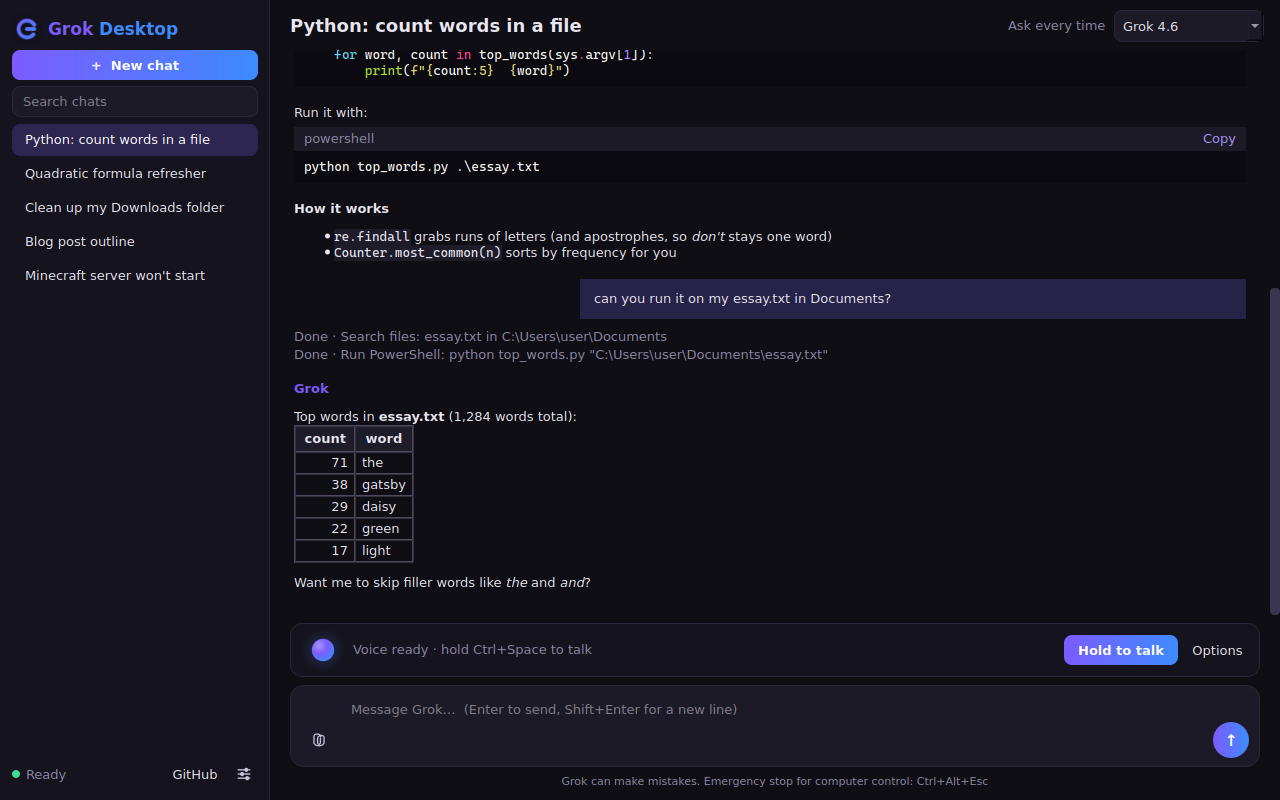
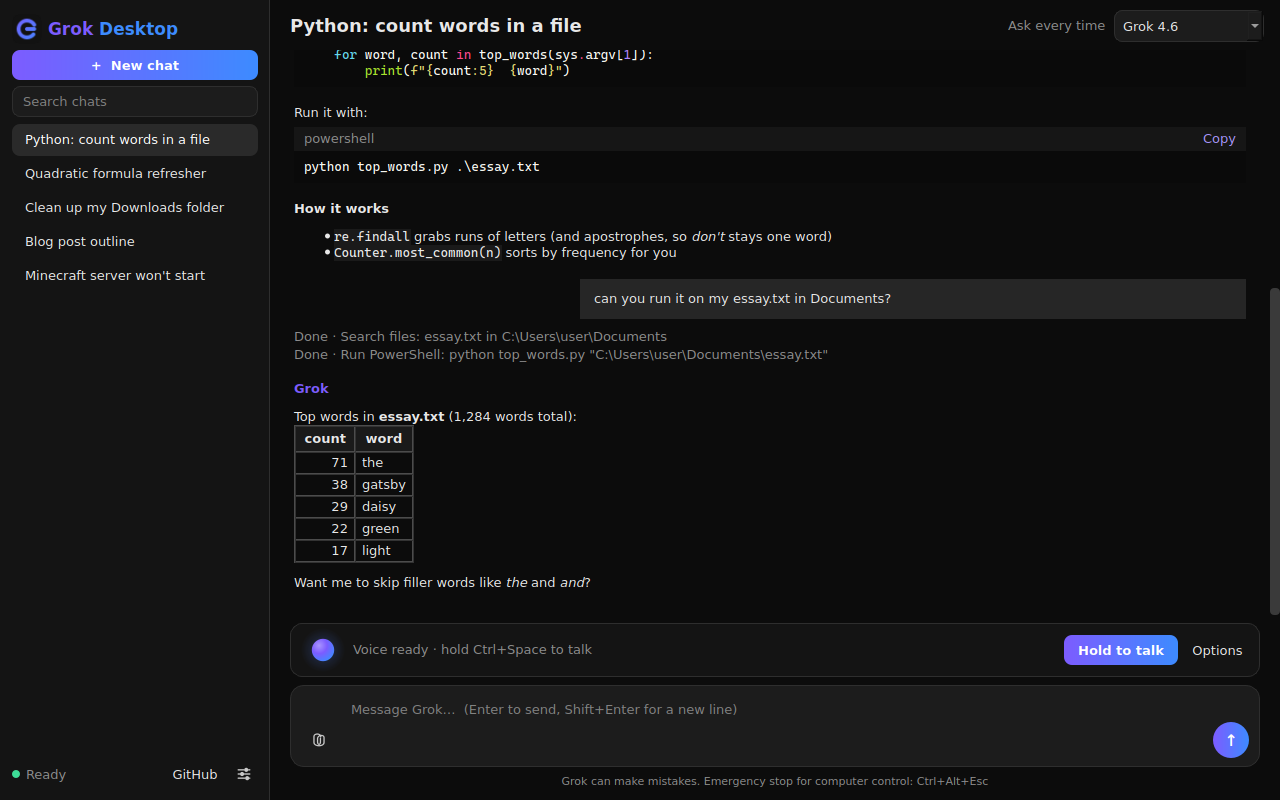
Shift the window to black and gray, and keep violet-blue for the accent.
Backgrounds, panels, text, and selections are neutral. The gradient stays on actions, focus, links, and the mark.

Changed region(s): [[0.4375, 0.3438, 1.0, 0.4062], [0.0, 0.1562, 0.2188, 0.2188]]

diff --git a/src/grok_desktop/theme.py b/src/grok_desktop/theme.py
@@ -1,4 +1,4 @@
-"""Dark theme with the Grid OS violet-to-blue accent (#7C5CFF -> #3D8BFF), and the app icon (drawn in code)."""
+"""Near-black theme. Surfaces are black and gray; the violet-to-blue accent (#7C5CFF -> #3D8BFF) is reserved for actions, focus, and the mark."""
 from __future__ import annotations
 
 from PySide6.QtCore import QPointF, QRectF, Qt
@@ -8,7 +8,8 @@ from PySide6.QtWidgets import QApplication
 from .paths import IS_WINDOWS
 
 V, B = "#7C5CFF", "#3D8BFF"
-BG, PANEL, PANEL2, BORDER, FG, MUTED = "#0F0E15", "#15131D", "#1C1A26", "#2A2738", "#E8E6F0", "#8C88A3"
+BG, PANEL, PANEL2, BORDER, FG, MUTED = "#0C0C0C", "#141414", "#1C1C1C", "#2E2E2E", "#E8E8E8", "#8D8D8D"
+HOVER, SELECTED = "#242424", "#2A2A2A"
 GRAD = f"qlineargradient(x1:0, y1:0, x2:1, y2:0, stop:0 {V}, stop:1 {B})"
 
 
@@ -19,7 +20,7 @@ def apply(app: QApplication) -> None:
                     (QPalette.AlternateBase, PANEL2), (QPalette.Text, FG), (QPalette.Button, PANEL2),
                     (QPalette.ButtonText, FG), (QPalette.Highlight, V), (QPalette.HighlightedText, "#FFFFFF"),
                     (QPalette.ToolTipBase, PANEL2), (QPalette.ToolTipText, FG), (QPalette.Link, "#A996FF"),
-                    (QPalette.PlaceholderText, "#6F6B85")):
+                    (QPalette.PlaceholderText, "#6A6A6A")):
         pal.setColor(role, QColor(c))
     app.setPalette(pal)
     f = QFont("Segoe UI" if IS_WINDOWS else "DejaVu Sans")
@@ -32,9 +33,9 @@ def apply(app: QApplication) -> None:
         #brand {{ font-size: 17px; font-weight: bold; }}
         QPushButton {{ padding: 7px 14px; border-radius: 8px; border: 1px solid {BORDER}; background: {PANEL2}; }}
         QPushButton:hover {{ border-color: {V}; }}
-        QPushButton:disabled {{ color: #5E5A72; }}
+        QPushButton:disabled {{ color: #5A5A5A; }}
         QPushButton#primary {{ background: {GRAD}; border: none; color: white; font-weight: bold; }}
-        QPushButton#primary:disabled {{ background: #2E2A45; color: #8A86A0; }}
+        QPushButton#primary:disabled {{ background: #2A2A2A; color: #7A7A7A; }}
         QPushButton#danger {{ background: #5A1E2A; border-color: #8A2A3C; color: white; font-weight: bold; }}
         QPushButton#ghost {{ background: transparent; border: none; padding: 6px; }}
         QPushButton#ghost:hover {{ background: {PANEL2}; }}
@@ -45,38 +46,38 @@ def apply(app: QApplication) -> None:
         QLineEdit, QPlainTextEdit, QComboBox, QKeySequenceEdit {{ background: {PANEL2}; border: 1px solid {BORDER};
                             border-radius: 8px; padding: 6px 8px; selection-background-color: {V}; }}
         QLineEdit:focus, QPlainTextEdit:focus {{ border-color: {V}; }}
-        QComboBox QAbstractItemView {{ background: {PANEL2}; selection-background-color: #2D2650; }}
+        QComboBox QAbstractItemView {{ background: {PANEL2}; selection-background-color: {SELECTED}; }}
         QListWidget {{ background: transparent; border: none; outline: none; }}
         QListWidget::item {{ padding: 8px 10px; border-radius: 8px; margin: 1px 0; }}
-        QListWidget::item:hover {{ background: #1F1C2B; }}
-        QListWidget::item:selected {{ background: #2D2650; color: white; }}
+        QListWidget::item:hover {{ background: {HOVER}; }}
+        QListWidget::item:selected {{ background: {SELECTED}; color: white; }}
         QTextBrowser#chat {{ background: {BG}; border: none; }}
         #composer {{ background: {PANEL2}; border: 1px solid {BORDER}; border-radius: 14px; }}
         #composer QPlainTextEdit {{ background: transparent; border: none; padding: 4px; }}
-        #chip {{ background: #262337; border: 1px solid {BORDER}; border-radius: 8px; }}
-        #permCard {{ background: #1A1726; border: 1px solid {V}; border-radius: 12px; }}
+        #chip {{ background: #222222; border: 1px solid {BORDER}; border-radius: 8px; }}
+        #permCard {{ background: #161616; border: 1px solid {V}; border-radius: 12px; }}
         #permCard[risk="high"] {{ border-color: #E5484D; }}
-        #banner {{ background: #221E33; border: 1px solid {BORDER}; border-radius: 10px; }}
+        #banner {{ background: #161616; border: 1px solid {BORDER}; border-radius: 10px; }}
         #banner[kind="error"] {{ background: #3A1F2A; border-color: #8A2A3C; }}
-        #detail {{ background: #0B0A10; border: 1px solid {BORDER}; border-radius: 8px;
+        #detail {{ background: #0A0A0A; border: 1px solid {BORDER}; border-radius: 8px;
                    font-family: 'Cascadia Mono', Consolas, 'DejaVu Sans Mono', monospace; }}
         #muted {{ color: {MUTED}; }}
         #hint {{ color: {MUTED}; font-size: 11px; }}
         #h1 {{ font-size: 18px; font-weight: bold; }}
         QRadioButton, QCheckBox {{ spacing: 8px; }}
-        QRadioButton::indicator {{ width: 16px; height: 16px; border: 2px solid #5E5A72; border-radius: 8px; background: transparent; }}
+        QRadioButton::indicator {{ width: 16px; height: 16px; border: 2px solid #5A5A5A; border-radius: 8px; background: transparent; }}
         QRadioButton::indicator:checked {{ background: {V}; border: 2px solid {V}; border-radius: 8px; }}
-        QCheckBox::indicator {{ width: 16px; height: 16px; border: 2px solid #5E5A72; border-radius: 4px; background: transparent; }}
+        QCheckBox::indicator {{ width: 16px; height: 16px; border: 2px solid #5A5A5A; border-radius: 4px; background: transparent; }}
         QCheckBox::indicator:checked {{ background: {V}; border: 2px solid {V}; border-radius: 4px; }}
         QScrollBar:vertical {{ background: transparent; width: 10px; }}
-        QScrollBar::handle:vertical {{ background: #3A3650; border-radius: 4px; min-height: 30px; }}
+        QScrollBar::handle:vertical {{ background: #3A3A3A; border-radius: 4px; min-height: 30px; }}
         QScrollBar::add-line, QScrollBar::sub-line {{ height: 0; }}
         QMenu {{ background: {PANEL2}; border: 1px solid {BORDER}; padding: 4px; }}
         QMenu::item {{ padding: 6px 18px; border-radius: 6px; }}
-        QMenu::item:selected {{ background: #2D2650; }}
+        QMenu::item:selected {{ background: {SELECTED}; }}
         QDialog {{ background: {BG}; }}
         QGroupBox {{ border: 1px solid {BORDER}; border-radius: 10px; margin-top: 14px; padding: 10px; }}
-        QGroupBox::title {{ subcontrol-origin: margin; left: 12px; padding: 0 4px; color: #B7A8FF; font-weight: bold; }}
+        QGroupBox::title {{ subcontrol-origin: margin; left: 12px; padding: 0 4px; color: {FG}; font-weight: bold; }}
     """)
 
 
@@ -89,7 +90,7 @@ def icon_pixmap(size: int = 256) -> QPixmap:
     r = QRectF(0, 0, size, size)
     bg = QPainterPath()
     bg.addRoundedRect(r.adjusted(size * .02, size * .02, -size * .02, -size * .02), size * .22, size * .22)
-    p.fillPath(bg, QColor("#14121C"))
+    p.fillPath(bg, QColor("#121212"))
     g = QLinearGradient(QPointF(0, 0), QPointF(size, size))
     g.setColorAt(0, QColor(V))
     g.setColorAt(1, QColor(B))
@@ -102,7 +103,7 @@ def icon_pixmap(size: int = 256) -> QPixmap:
     return pm
 
 
-def _line_icon(draw, size: int = 18, color: str = "#C9C4DC") -> QIcon:
+def _line_icon(draw, size: int = 18, color: str = "#C8C8C8") -> QIcon:
     """A small monochrome stroke icon. Emoji glyphs are missing or monochrome on some Linux fonts."""
     pm = QPixmap(size, size)
     pm.fill(Qt.transparent)
@@ -142,7 +143,7 @@ def paperclip_icon(size: int = 18) -> QIcon:
 def settings_icon(size: int = 18) -> QIcon:
     """Slider rows, which stay recognizable at the size of a toolbar button."""
     def draw(p: QPainter, s: float) -> None:
-        color = QColor("#C9C4DC")
+        color = QColor("#C8C8C8")
         pen = p.pen()
         for y, knob in ((0.24, 0.64), (0.50, 0.38), (0.76, 0.70)):
             cy, kx = s * y, s * knob

diff --git a/src/grok_desktop/ui.py b/src/grok_desktop/ui.py
@@ -24,8 +24,8 @@ STATE_TEXT = {"stopped": "Not connected", "starting": "Starting grok…",
               "connecting": "Connecting…", "ready": "Ready", "busy": "Grok is answering…",
               "needs_login": "Sign in needed", "error": "grok stopped", "no_grok": "grok not installed",
               "logging_in": "Waiting for sign-in…", "installing": "Installing grok…"}
-STATE_COLOR = {"stopped": "#8C88A3", "starting": "#E6B450", "connecting": "#E6B450", "ready": "#3DDC97",
-               "busy": "#A996FF", "needs_login": "#FF6B7A", "error": "#FF6B7A", "no_grok": "#FF6B7A",
+STATE_COLOR = {"stopped": "#8D8D8D", "starting": "#E6B450", "connecting": "#E6B450", "ready": "#3DDC97",
+               "busy": "#7C5CFF", "needs_login": "#FF6B7A", "error": "#FF6B7A", "no_grok": "#FF6B7A",
                "logging_in": "#E6B450", "installing": "#E6B450"}
 MODE_LABEL = {"ask": "Ask every time", "safe": "Safe actions", "all": "Allow everything"}
 MODE_COLOR = {"ask": MUTED, "safe": "#7DDE9A", "all": "#F0B429"}
@@ -265,7 +265,7 @@ class PermissionCard(QFrame):
         a = req["assessment"]
         color, label = {"high": ("#FF7A90", "High risk"), "medium": ("#E6B450", "Caution"),
                         "low": ("#A996FF", "Low risk")}.get(a["risk"], ("#E6B450", "Caution"))
-        src = "" if a.get("server") != "grok-desktop" else " <span style='color:#8C88A3'>(computer control)</span>"
+        src = "" if a.get("server") != "grok-desktop" else f" <span style='color:{MUTED}'>(computer control)</span>"
         self.head.setText(f"<span style='font-size:15px'><span style='color:{color}'>{label}</span>"
                           f"&nbsp;&nbsp;Grok wants to: <b>{a['title']}</b></span>{src}")
         self.detail.setPlainText(a["detail"] or "(no details)")
@@ -536,7 +536,7 @@ class QuickAsk(QWidget):
         self.setAttribute(Qt.WA_TranslucentBackground)
         frame = QFrame(self)
         frame.setObjectName("composer")
-        frame.setStyleSheet(f"#composer {{ border: 2px solid {V}; background: #15131D; border-radius: 16px; }}")
+        frame.setStyleSheet(f"#composer {{ border: 2px solid {V}; background: {PANEL_BG}; border-radius: 16px; }}")
         outer = QVBoxLayout(self)
         outer.setContentsMargins(0, 0, 0, 0)
         outer.addWidget(frame)
@@ -1084,7 +1084,7 @@ class MainWindow(QMainWindow):
 
     def _update_status(self) -> None:
         text = STATE_TEXT.get(self.ctl.state, self.ctl.state)
-        color = STATE_COLOR.get(self.ctl.state, "#8C88A3")
+        color = STATE_COLOR.get(self.ctl.state, MUTED)
         self.status.setText(text)
         self.status.setToolTip("")
         self.status_dot.setStyleSheet(f"background: {color}; border-radius: 4px;")

diff --git a/src/grok_desktop/render.py b/src/grok_desktop/render.py
@@ -26,7 +26,7 @@ except ImportError:  # pragma: no cover
 
 ACCENT = "#7C5CFF"
 ACCENT2 = "#3D8BFF"
-FG, MUTED, CODE_BG, CODE_HEAD, USER_BG = "#E8E6F0", "#8C88A3", "#0B0A10", "#1C1A26", "#272248"
+FG, MUTED, CODE_BG, CODE_HEAD, USER_BG = "#E8E8E8", "#8D8D8D", "#0A0A0A", "#161616", "#262626"
 STATUS_WORD = {"pending": "Pending", "in_progress": "Working", "completed": "Done", "failed": "Failed"}
 STARTERS = (
     ("error", "Explain this error", "Explain this error:\n\n"),
@@ -38,9 +38,9 @@ _FENCE = re.compile(r"^\s{0,3}(`{3,}|~{3,})\s*([\w+#.-]*)[^\n]*$")
 DOC_CSS = f"""
 body {{ color: {FG}; }}
 a {{ color: #A996FF; text-decoration: none; }}
-code {{ font-family: 'Cascadia Mono', Consolas, 'DejaVu Sans Mono', monospace; background-color: #1E1C29; }}
+code {{ font-family: 'Cascadia Mono', Consolas, 'DejaVu Sans Mono', monospace; background-color: #1A1A1A; }}
 pre {{ font-family: 'Cascadia Mono', Consolas, 'DejaVu Sans Mono', monospace; margin: 0; }}
-th {{ background-color: #1E1C29; padding: 4px 8px; }}
+th {{ background-color: #1A1A1A; padding: 4px 8px; }}
 td {{ padding: 2px 6px; }}
 h1, h2, h3 {{ color: #FFFFFF; }}
 """
@@ -73,7 +73,7 @@ def md_to_html(text: str) -> str:
     _MD.reset()
     out = _MD.convert(_loosen_lists(text))
     # Qt rich text: give tables a visible grid
-    return out.replace("<table>", '<table border="1" cellspacing="0" cellpadding="4" style="border-color:#34313F">')
+    return out.replace("<table>", '<table border="1" cellspacing="0" cellpadding="4" style="border-color:#333333">')
 
 
 def split_fences(text: str) -> list[tuple[str, str, str]]:
@@ -146,7 +146,7 @@ class Renderer:
                 out.append(f'<img src="{html.escape(uri)}" width="{min(w, 360)}"> ')
             else:
                 name = html.escape(a.get("name", p))
-                out.append(f'<span style="background-color:#1E1C29; color:{FG}">&nbsp;{name}&nbsp;</span> ')
+                out.append(f'<span style="background-color:#1A1A1A; color:{FG}">&nbsp;{name}&nbsp;</span> ')
         return "<p>" + "".join(out) + "</p>" if out else ""
 
     def message(self, m: dict) -> str:
@@ -191,7 +191,7 @@ def starter_text(key: str) -> str:
 
 def welcome_html() -> str:
     cells = "".join(
-        f'<td bgcolor="#1C1A26" style="padding:8px 14px"><a href="prompt:{key}">{html.escape(label)}</a></td>'
+        f'<td bgcolor="#1C1C1C" style="padding:8px 14px"><a href="prompt:{key}">{html.escape(label)}</a></td>'
         for key, label, _text in STARTERS)
     return (f'<br><br><p align="center" style="font-size:26px"><b><span style="color:{ACCENT}">Grok</span>'
             f'<span style="color:{ACCENT2}"> Desktop</span></b></p>'

diff --git a/src/grok_desktop/overlay.py b/src/grok_desktop/overlay.py
@@ -63,7 +63,7 @@ class Banner(QWidget):
         self.text = QLabel("Grok is controlling your mouse and keyboard")
         self.text.setStyleSheet("color: white; font-weight: bold;")
         self.sub = QLabel("")
-        self.sub.setStyleSheet("color: #C9C2FF;")
+        self.sub.setStyleSheet("color: #BDBDBD;")
         self.stop = QPushButton(f"■  Stop   ({hotkey})")
         self.stop.setObjectName("danger")
         self.stop.setCursor(Qt.PointingHandCursor)
@@ -77,8 +77,8 @@ class Banner(QWidget):
         p = QPainter(self)
         p.setRenderHint(QPainter.Antialiasing)
         g = QLinearGradient(0, 0, self.width(), 0)
-        g.setColorAt(0, QColor(36, 26, 80, 240))
-        g.setColorAt(1, QColor(20, 40, 90, 240))
+        g.setColorAt(0, QColor(16, 16, 16, 242))
+        g.setColorAt(1, QColor(24, 24, 24, 242))
         p.setBrush(g)
         p.setPen(QPen(QColor(V), 1.5))
         p.drawRoundedRect(QRectF(self.rect()).adjusted(1, 1, -1, -1), 14, 14)

diff --git a/src/grok_desktop/voice/orb.py b/src/grok_desktop/voice/orb.py
@@ -59,7 +59,7 @@ class Orb(QWidget):
         base = w * 0.27
         s = self.state
         if s == "muted":
-            a, b = QColor("#55526A"), QColor("#3A384A")
+            a, b = QColor("#5A5A5A"), QColor("#3A3A3A")
             r = base
         else:
             a, b = VIOLET, BLUE
@@ -112,6 +112,6 @@ class Orb(QWidget):
                 p.setBrush(mix(a, b, i / 2))
                 p.drawEllipse(q, 2.6, 2.6)
         if s == "muted":
-            p.setPen(QPen(QColor("#C0BDD3"), 2))
+            p.setPen(QPen(QColor("#C8C8C8"), 2))
             p.drawLine(QPointF(c.x() - r, c.y() + r), QPointF(c.x() + r, c.y() - r))
         p.end()
